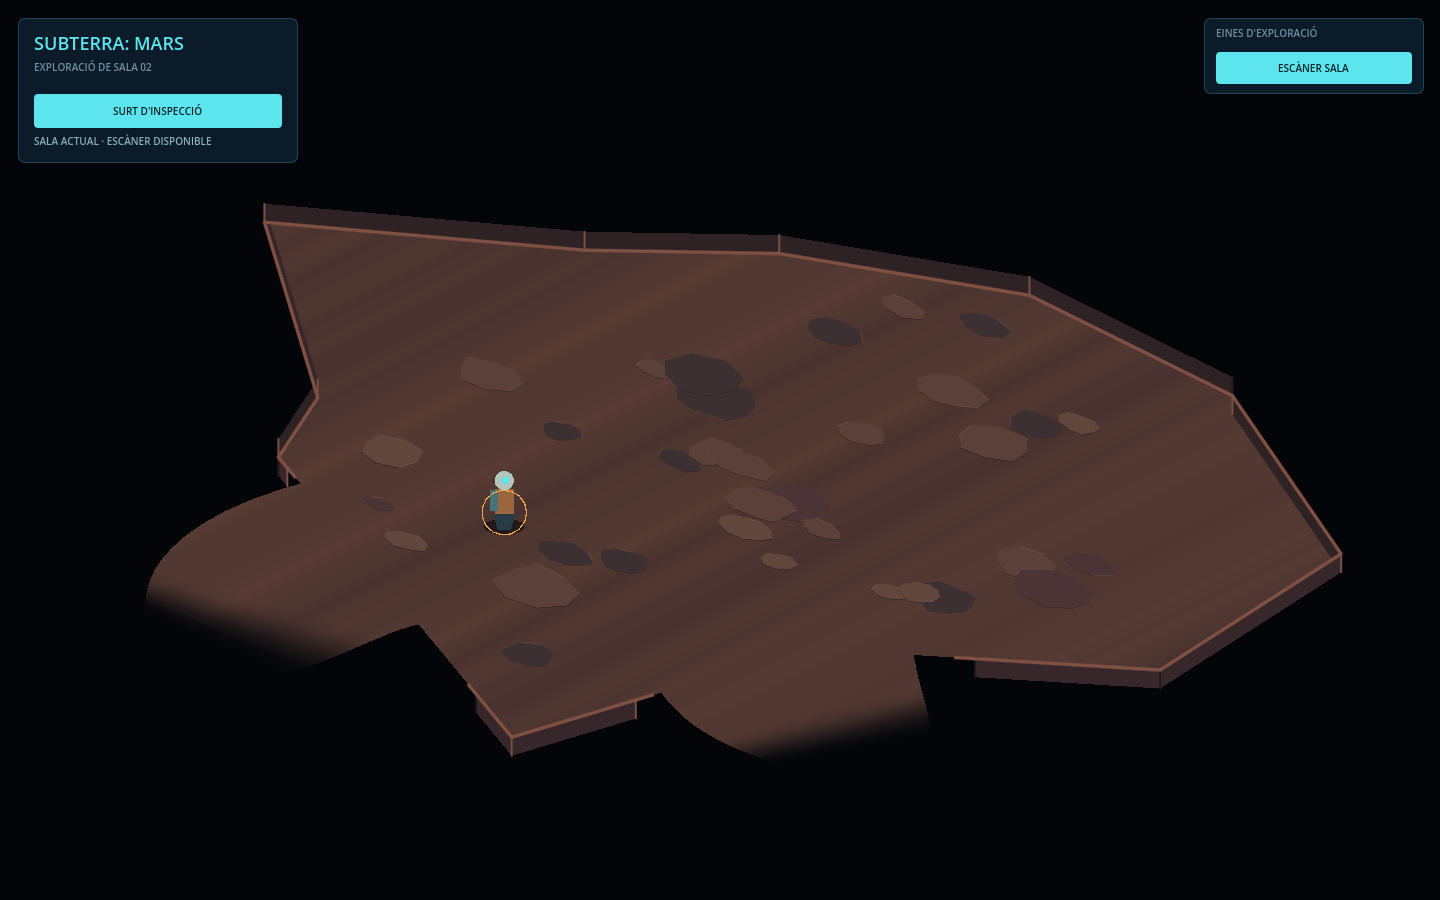
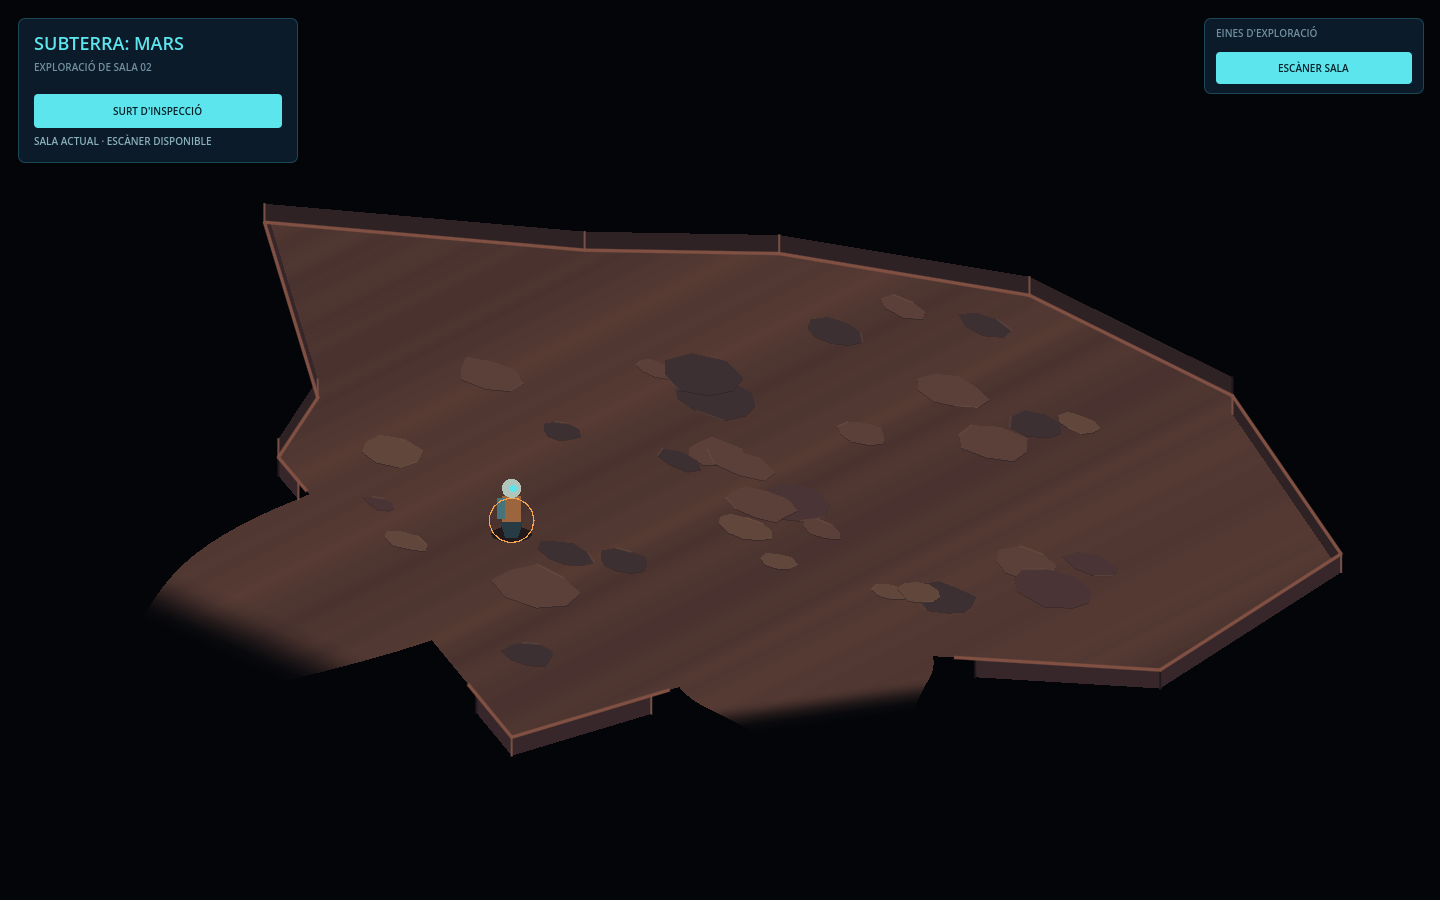
Permet sortir de la sala caminant per la galeria

diff --git a/docs/ESTAT_PROJECTE.md b/docs/ESTAT_PROJECTE.md
@@ -232,3 +232,7 @@ La revisió va mostrar que la unió booleana del contorn de sala i el corredor p
 ## Boques de galeria proporcionades
 
 La captura de la sala 05 amb sis sortides va revelar franges massa amples i llargues. L'amplada de cada galeria ara es calcula en coordenades del món, igual que la boca i la màscara transitable; el tram local visible és curt, s'estreny gradualment i acaba fonent-se amb la zona fosca. El centre passa exactament per la posició de la sortida i segueix l'inici de la corba procedural. El paviment es dibuixa per triangles consecutius per evitar polígons invàlids a les corbes. Verificació: importació Godot 4.6.2 sense errors, bateria de 51 llavors aprovada, captura OpenGL de la sala 05 amb sis sortides a reports/galeries_sala_05.png i captura actualitzada a reports/sortida_isometrica.png. Limitació: la captura visual no substitueix una prova manual de moviment amb el jugador.
+
+## Sortida caminant per la galeria
+
+En exploració de sala, un clic dret sobre una galeria visible dona una ordre de moviment explícita cap a la sala connectada. La ruta passa per la boca i pel tram local dibuixat; l'explorador es veu avançar-hi. En superar el final del tram local la vista canvia al mapa general, centrada en la seva posició, i l'ordre de moviment continua. Una ruta sense ordre de galeria no travessa la paret. Les boques ara es calculen on la corba real del corredor creua el contorn de la sala, perquè el terra dibuixat i la màscara transitable coincideixin. La versió del generador puja a p0b-3; les llavors de disposició continuen utilitzant p0b-2 per conservar la xarxa ja coneguda. Verificació: Godot 4.6.2 carrega sense errors, 51/51 llavors aprovades i prova de transició per la sortida inicial i les sis sortides de la sala 05; captura OpenGL de la sala actualitzada. Limitació: la transició s'ha comprovat amb simulació de moviment i captura; falta una sessió manual de clics al joc.
